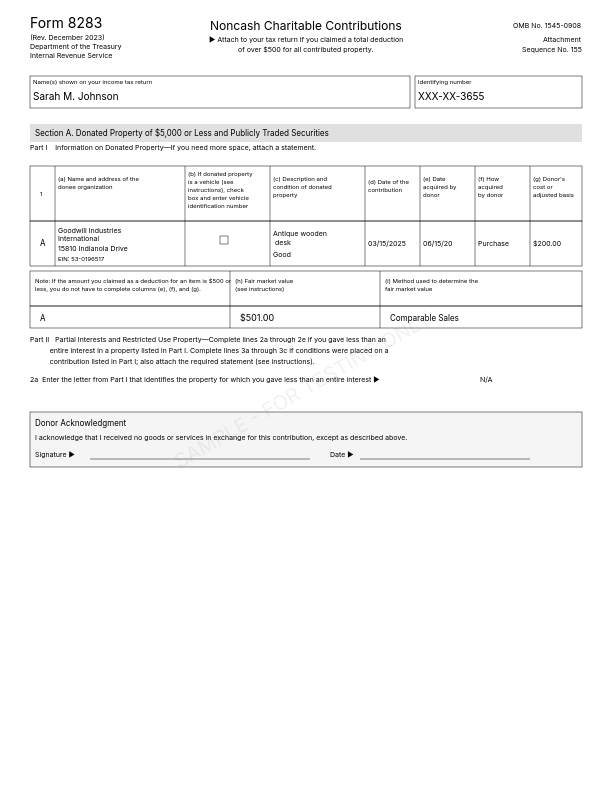
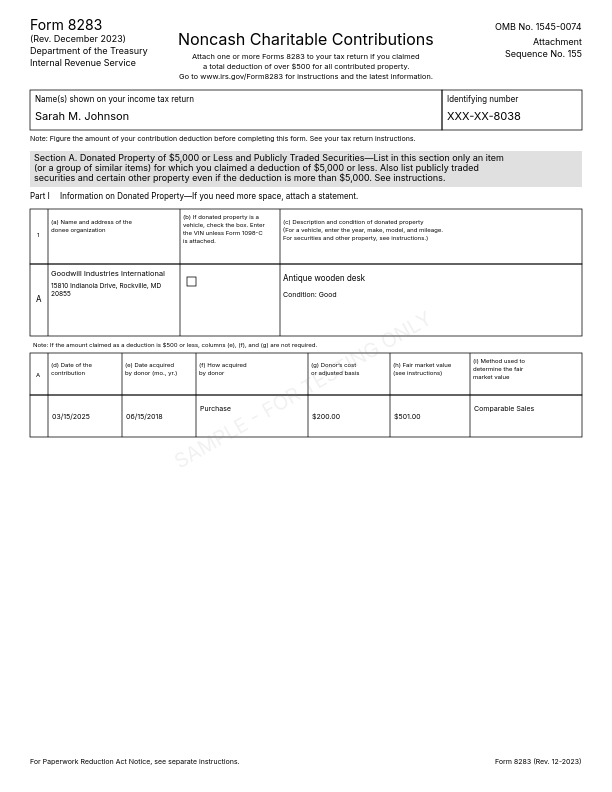
fix(DM-3067): normalize all Form 8283-A fixtures

Changed region(s): [[0.031, 0.0, 0.9624, 0.6061], [0.0621, 0.9394, 0.3725, 0.9697], [0.8072, 0.9394, 0.9314, 0.9697]]

diff --git a/scripts/validate_fixtures.js b/scripts/validate_fixtures.js
@@ -10,6 +10,7 @@ const {
     generateForm8283A,
     getGoFundMeReceiptAmounts,
     getForm8283FmvMethod,
+    getForm8283PropertyDescription,
     maskedTaxpayerId,
     wrapText
 } = require('./generate_from_donations');
@@ -133,8 +134,6 @@ assert(
     'D015 manifest must retain the printed EIN and its terminal NOT_FOUND expectation'
 );
 
-const d023 = fixture('D023');
-assertForms('D023', ['form_8283_section_a', 'acknowledgment_letter']);
 const measurementContext = createCanvas(612, 792).getContext('2d');
 
 function assertWrappedFieldFits(text, font, width, maxLines, label) {
@@ -148,24 +147,93 @@ function assertWrappedFieldFits(text, font, width, maxLines, label) {
     );
 }
 
-assertWrappedFieldFits(d023.donee.name, '7.5px Inter', 126, 2, 'D023 donee name');
-assertWrappedFieldFits(d023.donee.address, '6.5px Inter', 126, 3, 'D023 donee address');
-assertWrappedFieldFits(d023.assetDescription, '8px Inter', 296, 3, 'D023 property description');
-assertWrappedFieldFits(d023.howAcquired, '7px Inter', 104, 2, 'D023 acquisition method');
+const sectionADonations = donations.filter(donation =>
+    donation.forms.includes('form_8283_section_a')
+);
+assert(sectionADonations.length === 6, 'Expected six Form 8283-A fixture variants');
+
+for (const donation of sectionADonations) {
+    const description = getForm8283PropertyDescription(donation);
+    const fmvMethod = getForm8283FmvMethod(donation);
+
+    assertWrappedFieldFits(
+        donation.donee.name,
+        '7.5px Inter',
+        126,
+        2,
+        `${donation.id} donee name`
+    );
+    assertWrappedFieldFits(
+        donation.donee.address,
+        '6.5px Inter',
+        126,
+        3,
+        `${donation.id} donee address`
+    );
+    assertWrappedFieldFits(
+        description,
+        '8px Inter',
+        296,
+        3,
+        `${donation.id} property description`
+    );
+    assertWrappedFieldFits(
+        donation.howAcquired,
+        '7px Inter',
+        104,
+        2,
+        `${donation.id} acquisition method`
+    );
+    assert(fmvMethod, `${donation.id} must declare or derive an FMV method`);
+    assertWrappedFieldFits(
+        fmvMethod,
+        '7px Inter',
+        104,
+        2,
+        `${donation.id} FMV method`
+    );
+
+    const taxpayerId = maskedTaxpayerId(donation);
+    assert(
+        /^XXX-XX-\d{4}$/.test(taxpayerId) &&
+            taxpayerId === maskedTaxpayerId(donation),
+        `${donation.id} taxpayer identifier must be masked and deterministic`
+    );
+
+    const renderedForm = generateForm8283A(donation);
+    assert(
+        renderedForm.equals(generateForm8283A(donation)),
+        `${donation.id} Form 8283-A generation must be deterministic`
+    );
+    const trackedForm = fs.readFileSync(
+        path.join(
+            root,
+            'documents',
+            'form_8283_section_a',
+            `form_8283_section_a_${donation.id}.png`
+        )
+    );
+    assert(
+        trackedForm.equals(renderedForm),
+        `${donation.id} tracked Form 8283-A must match the canonical generator`
+    );
+
+    if (donation.assetType === 'vehicle') {
+        assert(
+            description.includes(`${donation.vehicle.mileage.toLocaleString('en-US')} miles`) &&
+                donation.forms.includes('form_1098c') &&
+                fmvMethod === 'Gross proceeds',
+            `${donation.id} vehicle Section A must include mileage, Form 1098-C, and gross-proceeds valuation`
+        );
+    }
+}
+
+const d023 = fixture('D023');
+assertForms('D023', ['form_8283_section_a', 'acknowledgment_letter']);
 assert(!d023.assetCondition, 'D023 securities must not declare a physical condition');
 assert(
     getForm8283FmvMethod(d023) === '100 shares at $50.00',
     'D023 Form 8283-A must derive its FMV method from the declared share data'
-);
-const d023TaxpayerId = maskedTaxpayerId(d023);
-assert(
-    /^XXX-XX-\d{4}$/.test(d023TaxpayerId) &&
-        d023TaxpayerId === maskedTaxpayerId(d023),
-    'D023 taxpayer identifier must be masked and deterministic'
-);
-assert(
-    generateForm8283A(d023).equals(generateForm8283A(d023)),
-    'D023 Form 8283-A generation must be deterministic'
 );
 const d023Acknowledgment = manifestDocuments.get(
     'acknowledgment_letter/acknowledgment_letter_D023.png'

diff --git a/scripts/generate_from_donations.js b/scripts/generate_from_donations.js
@@ -121,6 +121,29 @@ function getForm8283FmvMethod(donation) {
     return '';
 }
 
+function getForm8283PropertyDescription(donation) {
+    if (donation.assetType !== 'vehicle') {
+        return donation.assetDescription;
+    }
+
+    const vehicle = donation.vehicle;
+    if (
+        !vehicle?.year ||
+        !vehicle?.make ||
+        !vehicle?.model ||
+        !vehicle?.vin ||
+        vehicle?.mileage == null
+    ) {
+        throw new Error(`Vehicle data is incomplete for Form 8283-A: ${donation.id}`);
+    }
+
+    return [
+        `${vehicle.year} ${vehicle.make} ${vehicle.model}`,
+        `${vehicle.mileage.toLocaleString('en-US')} miles`,
+        `VIN ${vehicle.vin}`
+    ].join(', ');
+}
+
 function formatAddress(donor) {
     return `${donor.address}, ${donor.city}, ${donor.state} ${donor.zip}`;
 }
@@ -920,7 +943,7 @@ function generateForm8283A(donation) {
     ctx.font = '8px Inter';
     const descriptionLines = drawWrappedText(
         ctx,
-        donation.assetDescription,
+        getForm8283PropertyDescription(donation),
         descriptionX,
         y + 17,
         primaryWidths[3] - 6,
@@ -1697,6 +1720,7 @@ module.exports = {
     generateForm8283A,
     getGoFundMeReceiptAmounts,
     getForm8283FmvMethod,
+    getForm8283PropertyDescription,
     maskedTaxpayerId,
     wrapText
 };

diff --git a/README.md b/README.md
@@ -192,16 +192,19 @@ node scripts/generate_from_donations.js
 # Regenerate selected documents while still recomputing manifest_v2.json
 ONLY_DONATIONS=D029,D030 ONLY_FORMS=acknowledgment_letter node scripts/generate_from_donations.js
 
-# Regenerate the corrected D023 Section A and acknowledgment
-ONLY_DONATIONS=D023 node scripts/generate_from_donations.js
+# Regenerate every corrected Form 8283 Section A fixture
+ONLY_FORMS=form_8283_section_a node scripts/generate_from_donations.js
+
+# Regenerate the D023 acknowledgment
+ONLY_DONATIONS=D023 ONLY_FORMS=acknowledgment_letter node scripts/generate_from_donations.js
 
 # Regenerate the corrected D024 Section B and remove superseded outputs
 ONLY_DONATIONS=D024 node scripts/generate_from_donations_v2.js
 
 # Regenerate the DM-599 vehicle fixtures and manifest. The second command
-# replaces the simplified IRS forms with the OCR-accurate deterministic forms.
+# replaces only the non-Section-A IRS forms with their specialized renderings.
 ONLY_DONATIONS=D017,D018,D019 node scripts/generate_from_donations.js
-ONLY_DONATIONS=D017,D018,D019 node scripts/generate_from_donations_v2.js
+ONLY_DONATIONS=D017,D018,D019 ONLY_FORMS=form_1098c,form_8283_section_b,appraisal node scripts/generate_from_donations_v2.js
 
 # Validate fixture metadata, required files, and manifest parity
 npm test

diff --git a/IRS_FORMS_README.md b/IRS_FORMS_README.md
@@ -129,15 +129,18 @@ The `manifest_irs_forms.json` file contains metadata for each generated document
 # Install dependencies
 npm install
 
-# Regenerate the corrected D023 Section A and acknowledgment
-ONLY_DONATIONS=D023 node scripts/generate_from_donations.js
+# Regenerate every corrected Form 8283 Section A fixture
+ONLY_FORMS=form_8283_section_a node scripts/generate_from_donations.js
+
+# Regenerate the D023 acknowledgment
+ONLY_DONATIONS=D023 ONLY_FORMS=acknowledgment_letter node scripts/generate_from_donations.js
 
 # Regenerate the corrected D024 Section B and clean stale form outputs
 ONLY_DONATIONS=D024 node scripts/generate_from_donations_v2.js
 
 # Regenerate DM-599 vehicle documents and the linked manifest
 ONLY_DONATIONS=D017,D018,D019 node scripts/generate_from_donations.js
-ONLY_DONATIONS=D017,D018,D019 node scripts/generate_from_donations_v2.js
+ONLY_DONATIONS=D017,D018,D019 ONLY_FORMS=form_1098c,form_8283_section_b,appraisal node scripts/generate_from_donations_v2.js
 
 # Validate the fixture contract
 npm test
